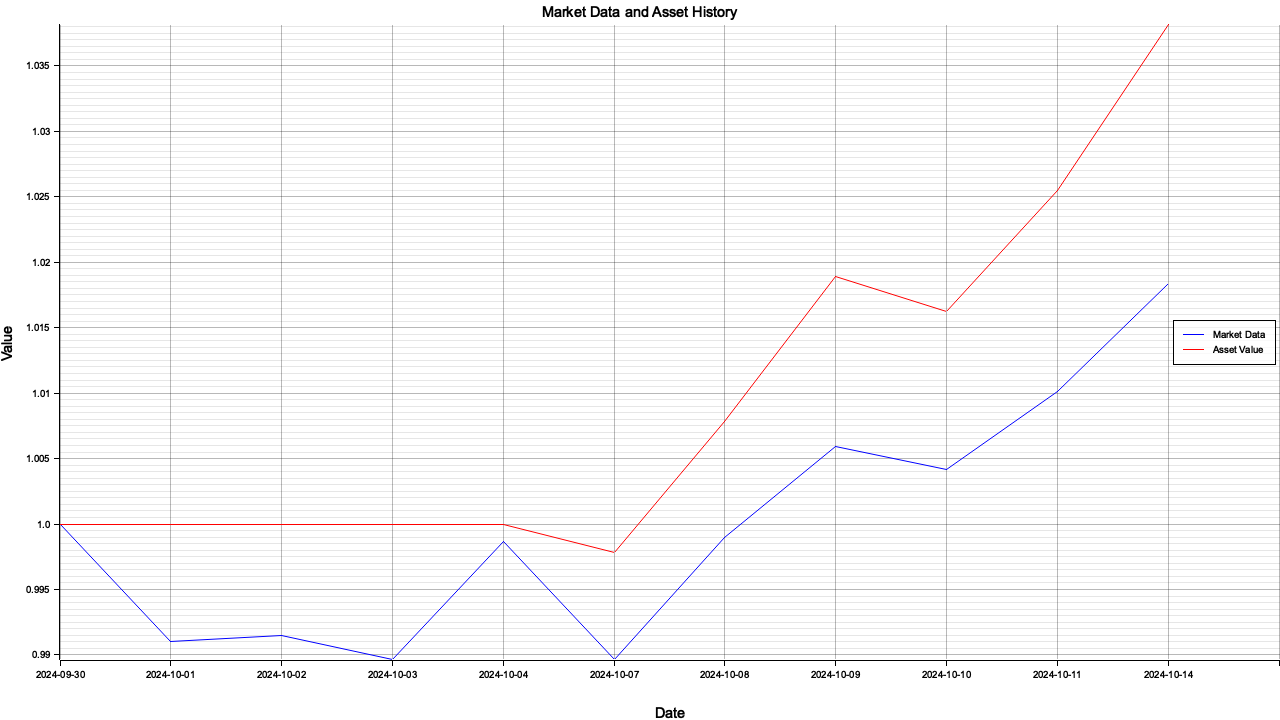
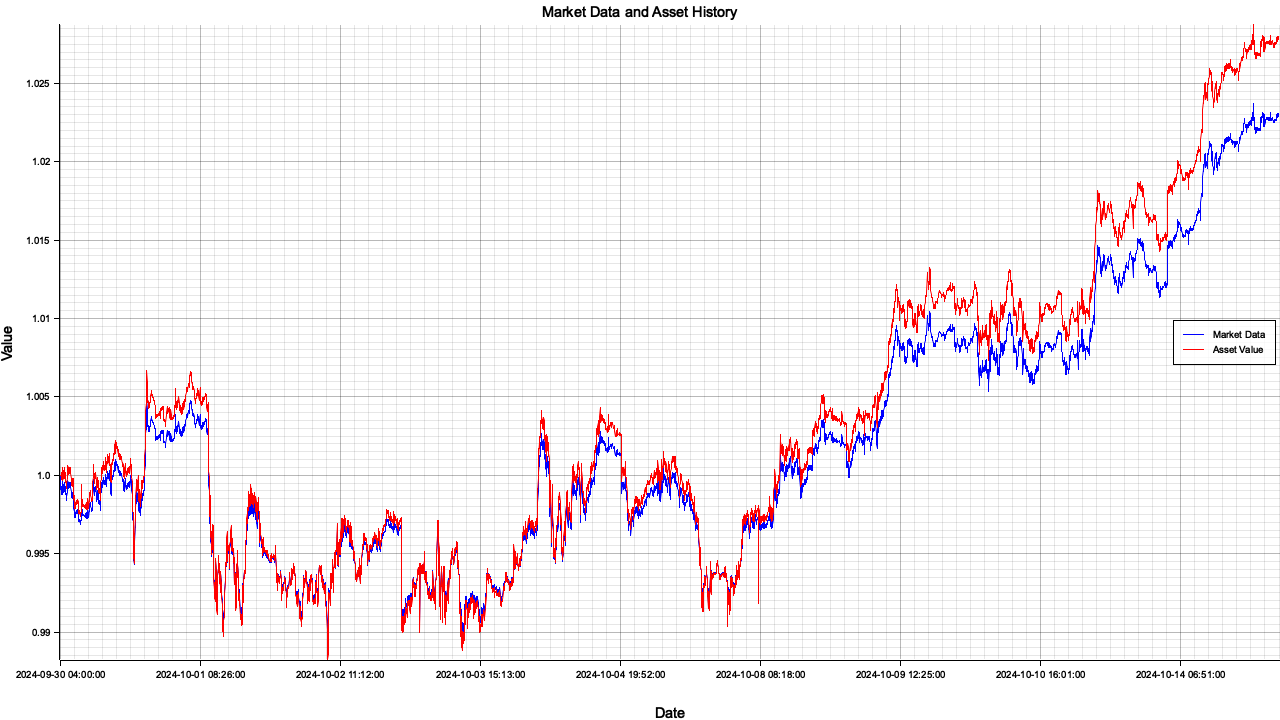
Hardcoded when to plot. Fix later.

Changed region(s): [[0.0, 0.0306, 1.0, 0.9472]]

diff --git a/src/data_analyzer.rs b/src/data_analyzer.rs
@@ -200,7 +200,7 @@ impl DataAnalyzer {
             self.asset_history.push((latest_timestamp.clone(), self.local_portfolio.asset));
 
         // Plot the asset_history
-            self.plot(&self.market_data, &self.asset_history, "performance.png")?;
+            if portfolio_info_event.id==8700 {self.plot(&self.market_data, &self.asset_history, "performance.png")?};
         } else {
             eprintln!("No market data available to synchronize with portfolio info!");
             return Ok(());

diff --git a/src/main.rs b/src/main.rs
@@ -70,7 +70,7 @@ fn main() {
 
     // Start feeding data
     let _market_data_feeder_thread = thread::spawn(move || {
-        market_data_feeder.start_feeding("./data/SPY_1day_sample.csv");
+        market_data_feeder.start_feeding("./data/SPY_1min_sample.csv");
     });
 
     event_manager.proceed();

diff --git a/src/event_manager.rs b/src/event_manager.rs
@@ -121,7 +121,7 @@ impl EventManager {
         let event = self.lp_receiver.recv().unwrap();
         self.dispatch_event(event);
 
-        let timeout = Duration::from_secs(10);
+        let timeout = Duration::from_secs(5);
         let mut start = Instant::now();
 
         loop {
